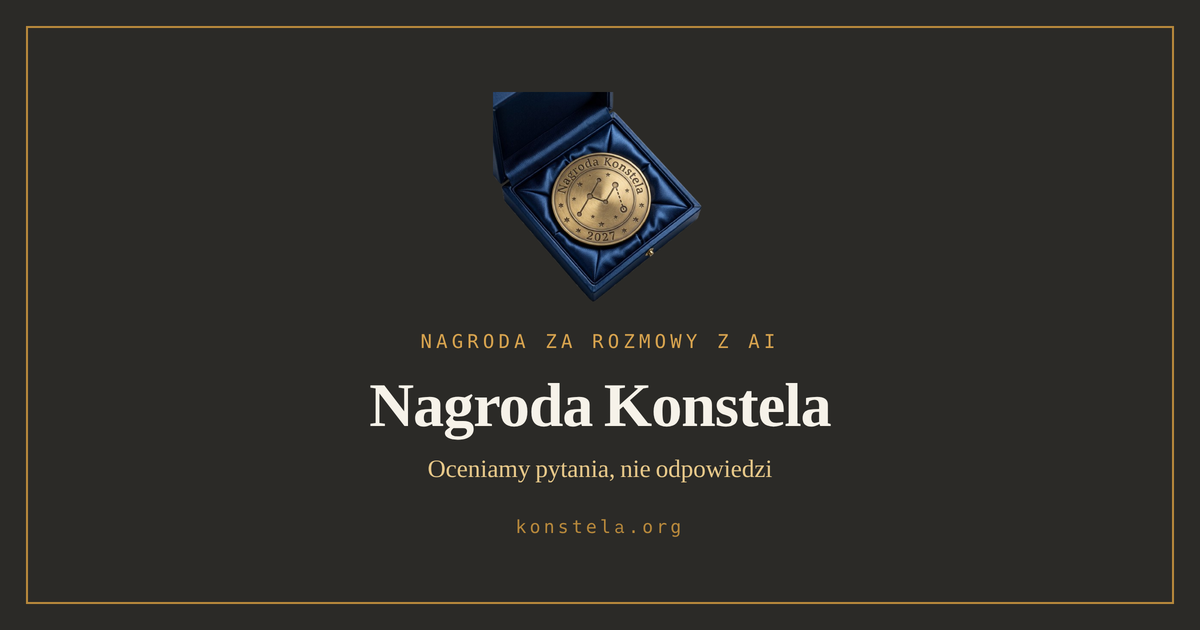
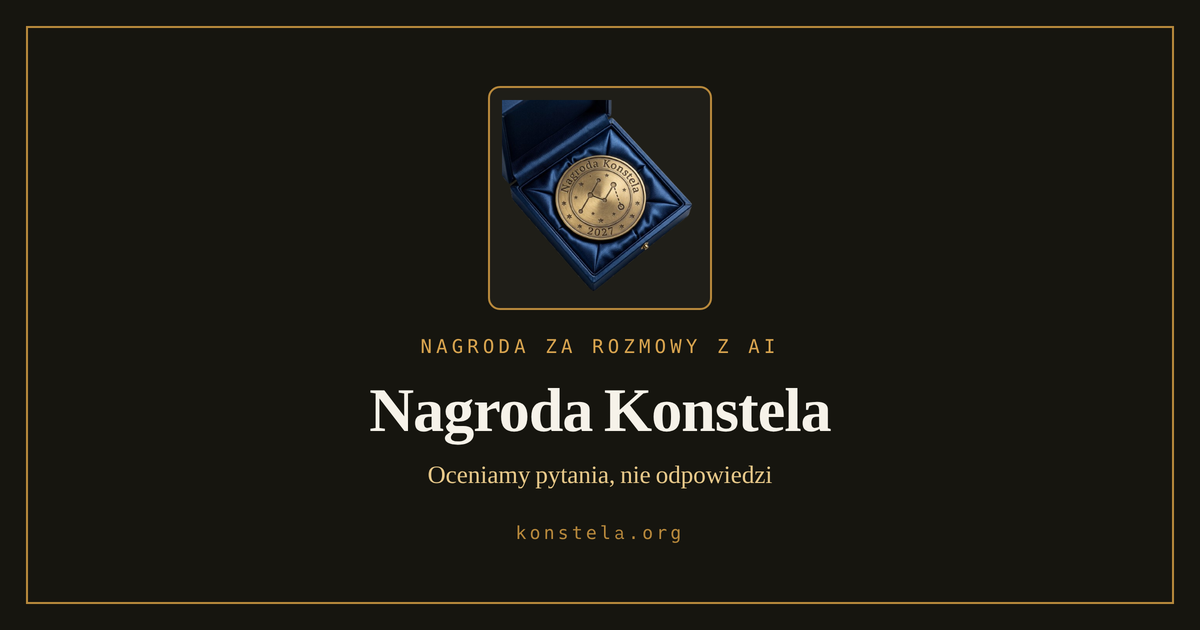
Zajawka: złota ramka wokół medalu i ciemniejsze tło
Claude-Session: https://claude.ai/code/session_01WR2JsPawQK6ge7oAFtsinp

diff --git a/jury-w-plebiscycie-rozmowy-z-ai/index.html b/jury-w-plebiscycie-rozmowy-z-ai/index.html
@@ -20,11 +20,11 @@
     <meta property="og:url" content="https://konstela.org/jury-w-plebiscycie-rozmowy-z-ai/" />
     <meta property="og:title" content="Szukamy jury plebiscytu na rozmowę ze sztuczną inteligencją" />
     <meta property="og:description" content="Czego Nagroda Konstela oczekuje od jury plebiscytu na rozmowę ze sztuczną inteligencją i co daje w zamian: zakres pracy, karta oceny, komentarze do antologii, honorarium i niezależność werdyktu." />
-    <meta property="og:image" content="https://konstela.org/assets/og.png?v=fe7a7bd09b" />
+    <meta property="og:image" content="https://konstela.org/assets/og.png?v=30b726eaff" />
     <meta name="twitter:card" content="summary_large_image" />
     <meta name="twitter:title" content="Szukamy jury plebiscytu na rozmowę ze sztuczną inteligencją" />
     <meta name="twitter:description" content="Czego Nagroda Konstela oczekuje od jury plebiscytu na rozmowę ze sztuczną inteligencją i co daje w zamian: zakres pracy, karta oceny, komentarze do antologii, honorarium i niezależność werdyktu." />
-    <meta name="twitter:image" content="https://konstela.org/assets/og.png?v=fe7a7bd09b" />
+    <meta name="twitter:image" content="https://konstela.org/assets/og.png?v=30b726eaff" />
     <link rel="stylesheet" href="/assets/czytelnosc.css?v=c15bed619e" />
     <link rel="stylesheet" href="/assets/view.css?v=dcf7ac4876" />
     <link rel="stylesheet" href="/assets/pasek.css?v=e2427fa4a7" />

diff --git a/jury-w-plebiscycie-piosenki-o-ai/index.html b/jury-w-plebiscycie-piosenki-o-ai/index.html
@@ -20,11 +20,11 @@
     <meta property="og:url" content="https://konstela.org/jury-w-plebiscycie-piosenki-o-ai/" />
     <meta property="og:title" content="Szukamy jury plebiscytu na piosenkę o sztucznej inteligencji" />
     <meta property="og:description" content="Czego Nagroda Konstela oczekuje od jury plebiscytu na piosenkę o sztucznej inteligencji i co daje w zamian: zakres pracy, karta oceny, honorarium, niezależność werdyktu i terminy pierwszej edycji." />
-    <meta property="og:image" content="https://konstela.org/assets/og.png?v=fe7a7bd09b" />
+    <meta property="og:image" content="https://konstela.org/assets/og.png?v=30b726eaff" />
     <meta name="twitter:card" content="summary_large_image" />
     <meta name="twitter:title" content="Szukamy jury plebiscytu na piosenkę o sztucznej inteligencji" />
     <meta name="twitter:description" content="Czego Nagroda Konstela oczekuje od jury plebiscytu na piosenkę o sztucznej inteligencji i co daje w zamian: zakres pracy, karta oceny, honorarium, niezależność werdyktu i terminy pierwszej edycji." />
-    <meta name="twitter:image" content="https://konstela.org/assets/og.png?v=fe7a7bd09b" />
+    <meta name="twitter:image" content="https://konstela.org/assets/og.png?v=30b726eaff" />
     <link rel="stylesheet" href="/assets/czytelnosc.css?v=c15bed619e" />
     <link rel="stylesheet" href="/assets/view.css?v=dcf7ac4876" />
     <link rel="stylesheet" href="/assets/pasek.css?v=e2427fa4a7" />

diff --git a/jury-w-plebiscycie-plakatu-o-ai/index.html b/jury-w-plebiscycie-plakatu-o-ai/index.html
@@ -20,11 +20,11 @@
     <meta property="og:url" content="https://konstela.org/jury-w-plebiscycie-plakatu-o-ai/" />
     <meta property="og:title" content="Szukamy jury plebiscytu na plakat o sztucznej inteligencji" />
     <meta property="og:description" content="Czego Nagroda Konstela oczekuje od jury plebiscytu na plakat o sztucznej inteligencji i co daje w zamian: zakres pracy, karta oceny, oględziny oryginałów, honorarium i niezależność werdyktu." />
-    <meta property="og:image" content="https://konstela.org/assets/og.png?v=fe7a7bd09b" />
+    <meta property="og:image" content="https://konstela.org/assets/og.png?v=30b726eaff" />
     <meta name="twitter:card" content="summary_large_image" />
     <meta name="twitter:title" content="Szukamy jury plebiscytu na plakat o sztucznej inteligencji" />
     <meta name="twitter:description" content="Czego Nagroda Konstela oczekuje od jury plebiscytu na plakat o sztucznej inteligencji i co daje w zamian: zakres pracy, karta oceny, oględziny oryginałów, honorarium i niezależność werdyktu." />
-    <meta name="twitter:image" content="https://konstela.org/assets/og.png?v=fe7a7bd09b" />
+    <meta name="twitter:image" content="https://konstela.org/assets/og.png?v=30b726eaff" />
     <link rel="stylesheet" href="/assets/czytelnosc.css?v=c15bed619e" />
     <link rel="stylesheet" href="/assets/view.css?v=dcf7ac4876" />
     <link rel="stylesheet" href="/assets/pasek.css?v=e2427fa4a7" />

diff --git a/jury-w-plebiscycie-filmu-o-ai/index.html b/jury-w-plebiscycie-filmu-o-ai/index.html
@@ -20,11 +20,11 @@
     <meta property="og:url" content="https://konstela.org/jury-w-plebiscycie-filmu-o-ai/" />
     <meta property="og:title" content="Szukamy jury plebiscytu na film o sztucznej inteligencji" />
     <meta property="og:description" content="Czego Nagroda Konstela oczekuje od jury plebiscytu na film o sztucznej inteligencji i co daje w zamian: zakres pracy, karta oceny, honorarium, niezależność werdyktu i terminy pierwszej edycji." />
-    <meta property="og:image" content="https://konstela.org/assets/og.png?v=fe7a7bd09b" />
+    <meta property="og:image" content="https://konstela.org/assets/og.png?v=30b726eaff" />
     <meta name="twitter:card" content="summary_large_image" />
     <meta name="twitter:title" content="Szukamy jury plebiscytu na film o sztucznej inteligencji" />
     <meta name="twitter:description" content="Czego Nagroda Konstela oczekuje od jury plebiscytu na film o sztucznej inteligencji i co daje w zamian: zakres pracy, karta oceny, honorarium, niezależność werdyktu i terminy pierwszej edycji." />
-    <meta name="twitter:image" content="https://konstela.org/assets/og.png?v=fe7a7bd09b" />
+    <meta name="twitter:image" content="https://konstela.org/assets/og.png?v=30b726eaff" />
     <link rel="stylesheet" href="/assets/czytelnosc.css?v=c15bed619e" />
     <link rel="stylesheet" href="/assets/view.css?v=dcf7ac4876" />
     <link rel="stylesheet" href="/assets/pasek.css?v=e2427fa4a7" />

diff --git a/statut/index.html b/statut/index.html
@@ -20,11 +20,11 @@
     <meta property="og:url" content="https://konstela.org/statut/" />
     <meta property="og:title" content="Statut Fundacji Konstela - szkielet do konsultacji" />
     <meta property="og:description" content="Pytania wynikają wprost ze znaczników w tekście powyżej i są ułożone w kolejności paragrafów. Każde dotyczy brzmienia zapisu, a nie wyboru biznesowego - wybory biznesowe są w następnej sekcji." />
-    <meta property="og:image" content="https://konstela.org/assets/og.png?v=fe7a7bd09b" />
+    <meta property="og:image" content="https://konstela.org/assets/og.png?v=30b726eaff" />
     <meta name="twitter:card" content="summary_large_image" />
     <meta name="twitter:title" content="Statut Fundacji Konstela - szkielet do konsultacji" />
     <meta name="twitter:description" content="Pytania wynikają wprost ze znaczników w tekście powyżej i są ułożone w kolejności paragrafów. Każde dotyczy brzmienia zapisu, a nie wyboru biznesowego - wybory biznesowe są w następnej sekcji." />
-    <meta name="twitter:image" content="https://konstela.org/assets/og.png?v=fe7a7bd09b" />
+    <meta name="twitter:image" content="https://konstela.org/assets/og.png?v=30b726eaff" />
     <link rel="stylesheet" href="/assets/czytelnosc.css?v=c15bed619e" />
     <link rel="stylesheet" href="/assets/view.css?v=dcf7ac4876" />
     <link rel="stylesheet" href="/assets/pasek.css?v=e2427fa4a7" />

diff --git a/dla-partnerow/index.html b/dla-partnerow/index.html
@@ -20,11 +20,11 @@
     <meta property="og:url" content="https://konstela.org/dla-partnerow/" />
     <meta property="og:title" content="Dla partnerów" />
     <meta property="og:description" content="Zakresy współpracy przy pierwszej edycji Nagrody Konstela: sponsorzy nagród w czterech plebiscytach, mecenasi antologii i sesji studyjnych, partnerzy wydawniczy, galeria, dystrybucja filmów, gala, podcast i patronat medialny." />
-    <meta property="og:image" content="https://konstela.org/assets/og.png?v=fe7a7bd09b" />
+    <meta property="og:image" content="https://konstela.org/assets/og.png?v=30b726eaff" />
     <meta name="twitter:card" content="summary_large_image" />
     <meta name="twitter:title" content="Dla partnerów" />
     <meta name="twitter:description" content="Zakresy współpracy przy pierwszej edycji Nagrody Konstela: sponsorzy nagród w czterech plebiscytach, mecenasi antologii i sesji studyjnych, partnerzy wydawniczy, galeria, dystrybucja filmów, gala, podcast i patronat medialny." />
-    <meta name="twitter:image" content="https://konstela.org/assets/og.png?v=fe7a7bd09b" />
+    <meta name="twitter:image" content="https://konstela.org/assets/og.png?v=30b726eaff" />
     <link rel="stylesheet" href="/assets/czytelnosc.css?v=c15bed619e" />
     <link rel="stylesheet" href="/assets/view.css?v=dcf7ac4876" />
     <link rel="stylesheet" href="/assets/pasek.css?v=e2427fa4a7" />

diff --git a/hymn/index.html b/hymn/index.html
@@ -20,11 +20,11 @@
     <meta property="og:url" content="https://konstela.org/hymn/" />
     <meta property="og:title" content="Hymn Nagrody Konstela „Zapytaj inaczej”" />
     <meta property="og:description" content="Hymn Nagrody Konstela „Zapytaj inaczej&quot;: pełny tekst, dwie wersje wygenerowane przez AI i zasada, której hymn podlega tak samo jak zgłoszenia - melodia pochodzi od człowieka." />
-    <meta property="og:image" content="https://konstela.org/assets/og.png?v=fe7a7bd09b" />
+    <meta property="og:image" content="https://konstela.org/assets/og.png?v=30b726eaff" />
     <meta name="twitter:card" content="summary_large_image" />
     <meta name="twitter:title" content="Hymn Nagrody Konstela „Zapytaj inaczej”" />
     <meta name="twitter:description" content="Hymn Nagrody Konstela „Zapytaj inaczej&quot;: pełny tekst, dwie wersje wygenerowane przez AI i zasada, której hymn podlega tak samo jak zgłoszenia - melodia pochodzi od człowieka." />
-    <meta name="twitter:image" content="https://konstela.org/assets/og.png?v=fe7a7bd09b" />
+    <meta name="twitter:image" content="https://konstela.org/assets/og.png?v=30b726eaff" />
     <link rel="stylesheet" href="/assets/czytelnosc.css?v=c15bed619e" />
     <link rel="stylesheet" href="/assets/view.css?v=dcf7ac4876" />
     <link rel="stylesheet" href="/assets/pasek.css?v=e2427fa4a7" />

diff --git a/fundacja/index.html b/fundacja/index.html
@@ -20,11 +20,11 @@
     <meta property="og:url" content="https://konstela.org/fundacja/" />
     <meta property="og:title" content="Fundacja Konstela" />
     <meta property="og:description" content="Fundacja Konstela - podmiot prowadzący Nagrodę: na jakim jest etapie, jakie ma cele statutowe, jak jest zbudowana, skąd bierze pieniądze i jak się z nią skontaktować." />
-    <meta property="og:image" content="https://konstela.org/assets/og.png?v=fe7a7bd09b" />
+    <meta property="og:image" content="https://konstela.org/assets/og.png?v=30b726eaff" />
     <meta name="twitter:card" content="summary_large_image" />
     <meta name="twitter:title" content="Fundacja Konstela" />
     <meta name="twitter:description" content="Fundacja Konstela - podmiot prowadzący Nagrodę: na jakim jest etapie, jakie ma cele statutowe, jak jest zbudowana, skąd bierze pieniądze i jak się z nią skontaktować." />
-    <meta name="twitter:image" content="https://konstela.org/assets/og.png?v=fe7a7bd09b" />
+    <meta name="twitter:image" content="https://konstela.org/assets/og.png?v=30b726eaff" />
     <link rel="stylesheet" href="/assets/czytelnosc.css?v=c15bed619e" />
     <link rel="stylesheet" href="/assets/view.css?v=dcf7ac4876" />
     <link rel="stylesheet" href="/assets/pasek.css?v=e2427fa4a7" />

diff --git a/regulaminy/index.html b/regulaminy/index.html
@@ -20,11 +20,11 @@
     <meta property="og:url" content="https://konstela.org/regulaminy/" />
     <meta property="og:title" content="Regulaminy Nagrody Konstela" />
     <meta property="og:description" content="Cztery regulaminy plebiscytów Nagrody Konstela w jednym miejscu: rozmowa, film, piosenka, plakat. Co je łączy i jakie dokumenty im towarzyszą." />
-    <meta property="og:image" content="https://konstela.org/assets/og.png?v=fe7a7bd09b" />
+    <meta property="og:image" content="https://konstela.org/assets/og.png?v=30b726eaff" />
     <meta name="twitter:card" content="summary_large_image" />
     <meta name="twitter:title" content="Regulaminy Nagrody Konstela" />
     <meta name="twitter:description" content="Cztery regulaminy plebiscytów Nagrody Konstela w jednym miejscu: rozmowa, film, piosenka, plakat. Co je łączy i jakie dokumenty im towarzyszą." />
-    <meta name="twitter:image" content="https://konstela.org/assets/og.png?v=fe7a7bd09b" />
+    <meta name="twitter:image" content="https://konstela.org/assets/og.png?v=30b726eaff" />
     <link rel="stylesheet" href="/assets/czytelnosc.css?v=c15bed619e" />
     <link rel="stylesheet" href="/assets/view.css?v=dcf7ac4876" />
     <link rel="stylesheet" href="/assets/pasek.css?v=e2427fa4a7" />

diff --git a/skrypty/og/og.html b/skrypty/og/og.html
@@ -22,7 +22,7 @@
       body {
         width: 1200px;
         height: 630px;
-        background: #2b2a27;
+        background: #16150f;
         color: #f6f2e9;
         font-family: 'Literata', serif;
         overflow: hidden;
@@ -48,11 +48,18 @@
         text-align: center;
         padding: 48px 30px;
       }
+      .medal-ramka {
+        padding: 12px;
+        border: 2px solid #b8893c;
+        border-radius: 12px;
+        background: #1f1e18;
+        margin-bottom: 24px;
+        display: flex;
+      }
       .medal {
-        width: 215px;
-        height: 215px;
+        width: 196px;
+        height: 196px;
         object-fit: contain;
-        margin-bottom: 22px;
       }
       .nad {
         font-family: 'IBM Plex Mono', monospace;
@@ -85,7 +92,7 @@
   <body>
     <div class="ramka"></div>
     <div class="srodek">
-      <img class="medal" src="/assets/medal-512.png" alt="" />
+      <div class="medal-ramka"><img class="medal" src="/assets/medal-512.png" alt="" /></div>
       <div class="nad">Nagroda za rozmowy z AI</div>
       <h1>Nagroda Konstela</h1>
       <div class="pod">Oceniamy pytania, nie odpowiedzi</div>

diff --git a/index.html b/index.html
@@ -43,7 +43,7 @@
       property="og:description"
       content="Coroczna nagroda dla ludzi, którzy najlepiej radzą sobie z AI. Oceniamy pytania, nie odpowiedzi."
     />
-    <meta property="og:image" content="https://konstela.org/assets/og.png?v=fe7a7bd09b" />
+    <meta property="og:image" content="https://konstela.org/assets/og.png?v=30b726eaff" />
     <meta property="og:image:width" content="1200" />
     <meta property="og:image:height" content="630" />
     <meta name="twitter:card" content="summary_large_image" />
@@ -55,7 +55,7 @@
       name="twitter:description"
       content="Coroczna nagroda dla ludzi, którzy najlepiej radzą sobie z AI. Oceniamy pytania, nie odpowiedzi."
     />
-    <meta name="twitter:image" content="https://konstela.org/assets/og.png?v=fe7a7bd09b" />
+    <meta name="twitter:image" content="https://konstela.org/assets/og.png?v=30b726eaff" />
     <script type="application/ld+json">
       {
         "@context": "https://schema.org",
